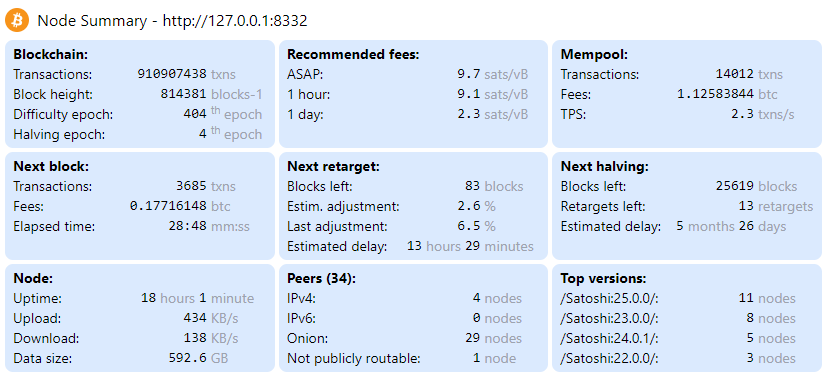
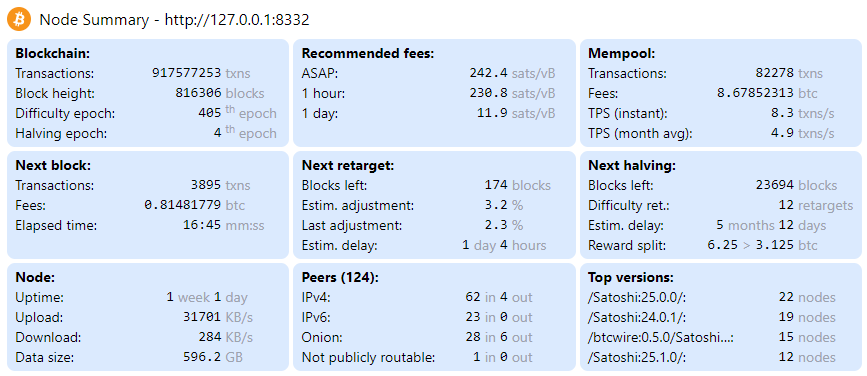
Various improvements
- split network counts in inbound and outbound peer counts
- truncate sub-version strings
- display current and next halving rewards
- display TPS month average (in addition to instantaneous TPS)
- simplified coding of cached promise

diff --git a/lib/load-summary.js b/lib/load-summary.js
@@ -18,13 +18,13 @@ async function rpcFetch(options, method, params) {
     return rpcResult.json()
 }
 
-// Function to keep 4 digits of precision (used for number of days and difficulty adjustments)
+// Function to keep 4 digits of precision (used for number of days, TPS and difficulty adjustments)
 function precision4(n) {
     const magnitude = Math.pow(10, Math.floor(Math.log10(n))+1)
-    const res = Math.floor(n/magnitude*10000)/10000*magnitude
+    const res = Math.round(n/magnitude*10000)/10000*magnitude
     // Get rid of residual digits like 6.470000000000001
     const truncate = 1e10
-    return Math.floor(res*truncate)/truncate
+    return Math.round(res*truncate)/truncate
 }
 
 // Test if an environment variable is undefined or the empty string
@@ -100,10 +100,22 @@ async function loadSummaryCached() {
                     break
                 case "getpeerinfo":
                     const total = rpcResult.length
-                    const ipv4 = rpcResult.filter(i => i.network == "ipv4").length
-                    const ipv6 = rpcResult.filter(i => i.network == "ipv6").length
-                    const onion = rpcResult.filter(i => i.network == "onion").length
-                    const not_publicly_routable = rpcResult.filter(i => i.network == "not_publicly_routable").length
+                    const ipv4 = { 
+                        in: rpcResult.filter(i => i.network == "ipv4" && i.connection_type == "inbound").length,
+                        out: rpcResult.filter(i => i.network == "ipv4" && i.connection_type != "inbound").length
+                    }
+                    const ipv6 = { 
+                        in: rpcResult.filter(i => i.network == "ipv6" && i.connection_type == "inbound").length,
+                        out: rpcResult.filter(i => i.network == "ipv6" && i.connection_type != "inbound").length
+                    }
+                    const onion = { 
+                        in: rpcResult.filter(i => i.network == "onion" && i.connection_type == "inbound").length,
+                        out: rpcResult.filter(i => i.network == "onion" && i.connection_type != "inbound").length
+                    }
+                    const not_publicly_routable = { 
+                        in: rpcResult.filter(i => i.network == "not_publicly_routable" && i.connection_type == "inbound").length,
+                        out: rpcResult.filter(i => i.network == "not_publicly_routable" && i.connection_type != "inbound").length
+                    }
                     res.peers = {total, ipv4, ipv6, onion, not_publicly_routable}
                     let sub_versions = rpcResult.reduce((h, p) => {h[p.subver] = (h[p.subver] ?? 0) + 1; return h}, {})
                     sub_versions = Object.entries(sub_versions)
@@ -126,6 +138,7 @@ async function loadSummaryCached() {
                     break
                 case "getchaintxstats":
                     res.ntx = rpcResult.txcount
+                    res.ntx_per_second = precision4(rpcResult.txrate)
                     break
                 default:
                     // To analyze results of a new method just uncomment following line
@@ -241,6 +254,8 @@ async function loadSummaryCached() {
         // Log everything except sub_versions to shorten the lines
         // const {sub_versions: _, ...rest} = res
         // console.log(JSON.stringify(rest))
+        // Even shorter log:
+        // console.log(res.time_since_last_bloc)
         return res
     } catch (err) {
         console.error(err)
@@ -254,12 +269,9 @@ let cachedPromise = undefined
 function getLastRes() {
     // console.log(`Is cached: ${cachedPromise != undefined}`)
     if (cachedPromise == undefined) {
-        cachedPromise = new Promise(async function (resolve, _) {
-            const data = await loadSummaryCached()
-            resolve(data)
-        });
+        cachedPromise = loadSummaryCached()
     }
-    return cachedPromise;
+    return cachedPromise
 }
 
 export async function loadSummary() {
@@ -270,6 +282,7 @@ export async function loadSummary() {
     const lastTime = lastRes.server_time ?? new Date(0)
     const diffTime = (newTime - lastTime) / 1000
     let hit = diffTime <= process.env.REVALIDATE
+    // console.log(`hit: ${hit}`)
     if (!hit) {
         // Invalidate cached result
         cachedPromise = undefined

diff --git a/app/cards.js b/app/cards.js
@@ -123,6 +123,28 @@ function formatTransactions(val) {
 }
 
 function formatPeers(val) {
+  return [
+    <div key="2" className='flex justify-end gap-1'>
+      <div>{val.in}</div>
+      <div className='font-sans text-gray-400'>in</div>
+      <div>{val.out}</div>
+    </div>,
+    "out"
+  ]
+}
+
+function formatRewards(val) {
+  return [
+    <div key="2" className='flex justify-end gap-1'>
+      <div>{50/(1<<(val-1))}</div>
+      <span className='font-sans text-gray-400'>{'>'}</span>
+      <div>{50/(1<<val)}</div>
+    </div>,
+    "btc"
+  ]
+}
+
+function formatNodes(val) {
   return [val, "node" + s(val)]
 }
 
@@ -138,7 +160,8 @@ export default async function Cards({summary}) {
     <div className="text-sm grid grid-cols-1 sm:grid-cols-2 md:grid-cols-3 xl:grid-cols-4 2xl:grid-cols-5 gap-1">
       <Card title={"Blockchain"} items={[
         {"Transactions": formatTransactions(summary.ntx)},
-        {"Block height": [summary.headers, "blocks-1"]},
+        // In reality block height is the number of blocks in the blockchain minus 1 (but who cares?)
+        {"Block height": [summary.headers, "blocks"]},
         {"Difficulty epoch": formatEpoch(summary.diff_epoch)},
         {"Halving epoch": formatEpoch(summary.halving_epoch)}
       ]}/>
@@ -150,7 +173,8 @@ export default async function Cards({summary}) {
       <Card title={"Mempool"} items={[
         {"Transactions": formatTransactions(summary.mempool.ntx)},
         {"Fees": formatBitcoinAmount(summary.mempool.fees)},
-        {"TPS": formatRate(summary.mempool.ntx_per_second)}
+        {"TPS (instant)": formatRate(summary.mempool.ntx_per_second)},
+        {"TPS (month avg)": formatRate(summary.ntx_per_second)}
       ]}/>
       <Card title={"Next block"} items={[
         {"Transactions": formatTransactions(summary.template.ntx)},
@@ -161,12 +185,14 @@ export default async function Cards({summary}) {
         {"Blocks left": formatBlocks(summary.next_retarget.blocks)},
         {"Estim. adjustment": formatPercent(summary.next_retarget.estimated_diff_adj_percent)},
         {"Last adjustment": formatPercent(summary.prev_diff_adj_percent)},
-        {"Estimated delay": formatDays(summary.next_retarget.days)},
+        {"Estim. delay": formatDays(summary.next_retarget.days)},
       ]}/>
       <Card title={"Next halving"} items={[
         {"Blocks left": formatBlocks(summary.next_halving.blocks)},
-        {"Retargets left": formatRetargets(summary.next_halving.retargets)},
-        {"Estimated delay": formatDays(summary.next_halving.days)}
+        {"Difficulty ret.": formatRetargets(summary.next_halving.retargets)},
+        {"Estim. delay": formatDays(summary.next_halving.days)},
+        // Should be good at md size up to halving epoch 6 included (until spring 2032)
+        {"Reward split": formatRewards(summary.halving_epoch)}
       ]}/>
       <Card title={"Node"} items={[
         {"Uptime": formatDays(summary.uptime_days)},
@@ -184,7 +210,11 @@ export default async function Cards({summary}) {
       <Card title={"Top versions"} items={
         summary.sub_versions.filter(sv => !sv[0].startsWith("/electrs")).slice(0, 4).map(sv => {
           let o = {}
-          o[sv[0]] = formatPeers(sv[1])
+          let agent = sv[0]
+          const maxLen = 23
+          if (agent.length > maxLen)
+            agent = agent.slice(0, maxLen-1) + "…"
+          o[agent] = formatNodes(sv[1])
           return o
         })}/>
     </div>

diff --git a/tailwind.config.js b/tailwind.config.js
@@ -8,8 +8,8 @@ module.exports = {
   theme: {
     extend: {
       screens: {
-        // 3 columns at 830px instead of 768px
-        'md': '830px',
+        // 3 columns at 870px instead of 768px
+        'md': '870px',
       },
     },
   },

diff --git a/README.md b/README.md
@@ -107,59 +107,100 @@ Get the logs with: `journalctl -S <hh:mm> -u node-summary -o cat -f`
 ```json
 {
   "feerates": {
-    "1": 9.692,
-    "6": 9.067,
-    "144": 2.278
+    "1": 242.604,
+    "6": 220.123,
+    "144": 11.924
   },
-  "uptime_days": 0.7544,
-  "diff_epoch": 404,
+  "uptime_days": 7.76,
+  "diff_epoch": 405,
   "halving_epoch": 4,
-  "blocks": 814381,
-  "headers": 814381,
-  "size_on_disk": 592556898040,
-  "totalbytesrecv": 373385512,
-  "totalbytessent": 1187651207,
+  "blocks": 816327,
+  "headers": 816327,
+  "size_on_disk": 596229529914,
+  "totalbytesrecv": 8004102468,
+  "totalbytessent": 881873911445,
   "peers": {
-    "total": 35,
-    "ipv4": 4,
-    "ipv6": 0,
-    "onion": 30,
-    "not_publicly_routable": 1
+    "total": 124,
+    "ipv4": {
+      "in": 63,
+      "out": 4
+    },
+    "ipv6": {
+      "in": 21,
+      "out": 0
+    },
+    "onion": {
+      "in": 29,
+      "out": 6
+    },
+    "not_publicly_routable": {
+      "in": 1,
+      "out": 0
+    }
   },
   "sub_versions": [
-    [ "/Satoshi:25.0.0/", 11 ],
+    [ "/Satoshi:25.0.0/", 21 ],
+    [ "/btcwire:0.5.0/Satoshi:25.0.0/", 16 ],
+    [ "/Satoshi:24.0.1/", 15 ],
+    [ "/Satoshi:25.1.0/", 14 ],
     [ "/Satoshi:23.0.0/", 8 ],
-    [ "/Satoshi:24.0.1/", 6 ],
-    [ "/Satoshi:22.0.0/", 3 ],
+    [ "/dsn.tm.kit.edu/bitcoin:0.9.99/", 5 ],
+    [ "/Satoshi:22.0.0/", 5 ],
+    [ "/Satoshi:25.99.0/", 3 ],
+    [ "/bitnodes.io:0.3/", 2 ],
     [ "/Satoshi:22.0.0(FutureBit-Apollo-Node)/", 2 ],
+    [ "/Satoshi:26.99.0/", 2 ],
+    [ "/bitnodes.earn.com:0.1/", 2 ],
+    [ "/Satoshi:0.20.1/", 2 ],
+    [ "/Satoshi:0.16.0/", 2 ],
+    [ "/nodes.mom.market:0.2/", 2 ],
     [ "/electrs:0.10.0/", 1 ],
+    [ "/seeder:0.0001/", 1 ],
+    [ "/Satoshi:0.14.0/", 1 ],
     [ "", 1 ],
-    [ "/Satoshi:0.18.1/", 1 ],
-    [ "/Satoshi:0.21.1/", 1 ],
-    [ "/Satoshi:23.0.0/Knots:20220529/", 1 ]
+    [ "/Satoshi:23.1.0/", 1 ],
+    [ "/Satoshi:24.1.0/", 1 ],
+    [ "/Satoshi:24.0.0/", 1 ],
+    [ "/Satoshi:0.19.0.1/", 1 ],
+    [ "/btcwire:0.5.0/bitcoinstats.com:0.2/", 1 ],
+    [ "/Satoshi:0.16.1/", 1 ],
+    [ "/Satoshi:0.18.0/", 1 ],
+    [ "/bitcoinj:0.16.1/", 1 ],
+    [ "/Satoshi:25.0.0(RoninDojo 2.1.0)/", 1 ],
+    [ "/breadwallet:1.50/", 1 ],
+    [ "/Satoshi:0.7.0.3/", 1 ],
+    [ "/breadwallet:1.4/", 1 ],
+    [ "/BitCoinJ:0.11.2/MultiBit:0.5.18/", 1 ],
+    [ "/bitcoinj:0.14.3/Bitcoin Wallet:4.58.1-btcx/", 1 ],
+    [ "/bitcoinj:0.14.5/Bitcoin Wallet:5.42/", 1 ],
+    [ "/breadwallet:0.6.5/", 1 ],
+    [ "/breadwallet:1.3.5/", 1 ],
+    [ "/Satoshi:0.12.0/", 1 ],
+    [ "/bitcoinj:0.14.4/Bitcoin Wallet:5.22/", 1 ]
   ],
   "template": {
-    "fees": 0.19074448,
-    "ntx": 3555
+    "fees": 2.17614741,
+    "ntx": 4035
   },
   "mempool": {
-    "fees": 1.16161923,
-    "ntx": 14881,
-    "ntx_per_second": 2.126
+    "fees": 14.11043283,
+    "ntx": 100548,
+    "ntx_per_second": 4.911
   },
-  "ntx": 910907438,
-  "server_time": 1698588894212,
-  "time_since_last_bloc": 2064,
-  "prev_diff_adj_percent": 6.47,
+  "ntx": 917660966,
+  "ntx_per_second": 4.875,
+  "server_time": 1699722563156,
+  "time_since_last_bloc": 515,
+  "prev_diff_adj_percent": 2.348,
   "next_retarget": {
-    "blocks": 83,
-    "days": 0.562,
-    "estimated_diff_adj_percent": 2.558
+    "blocks": 153,
+    "days": 1.03,
+    "estimated_diff_adj_percent": 3.114
   },
   "next_halving": {
-    "blocks": 25619,
-    "retargets": 13,
-    "days": 177.9
+    "blocks": 23673,
+    "retargets": 12,
+    "days": 164.4
   },
   "revalidate": "5"
 }
